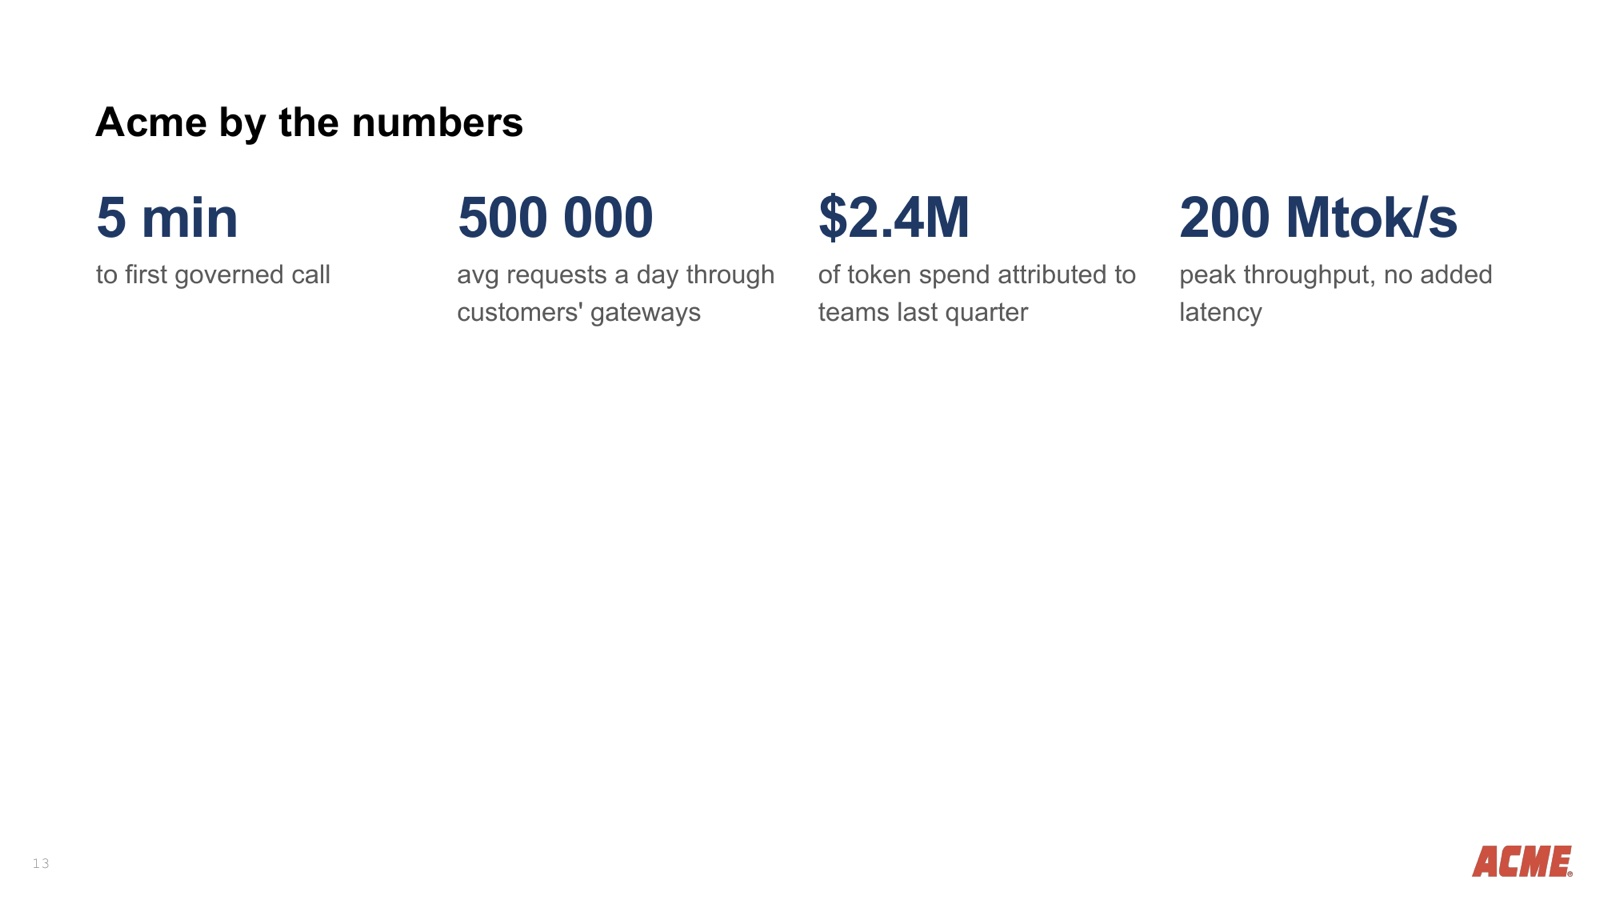
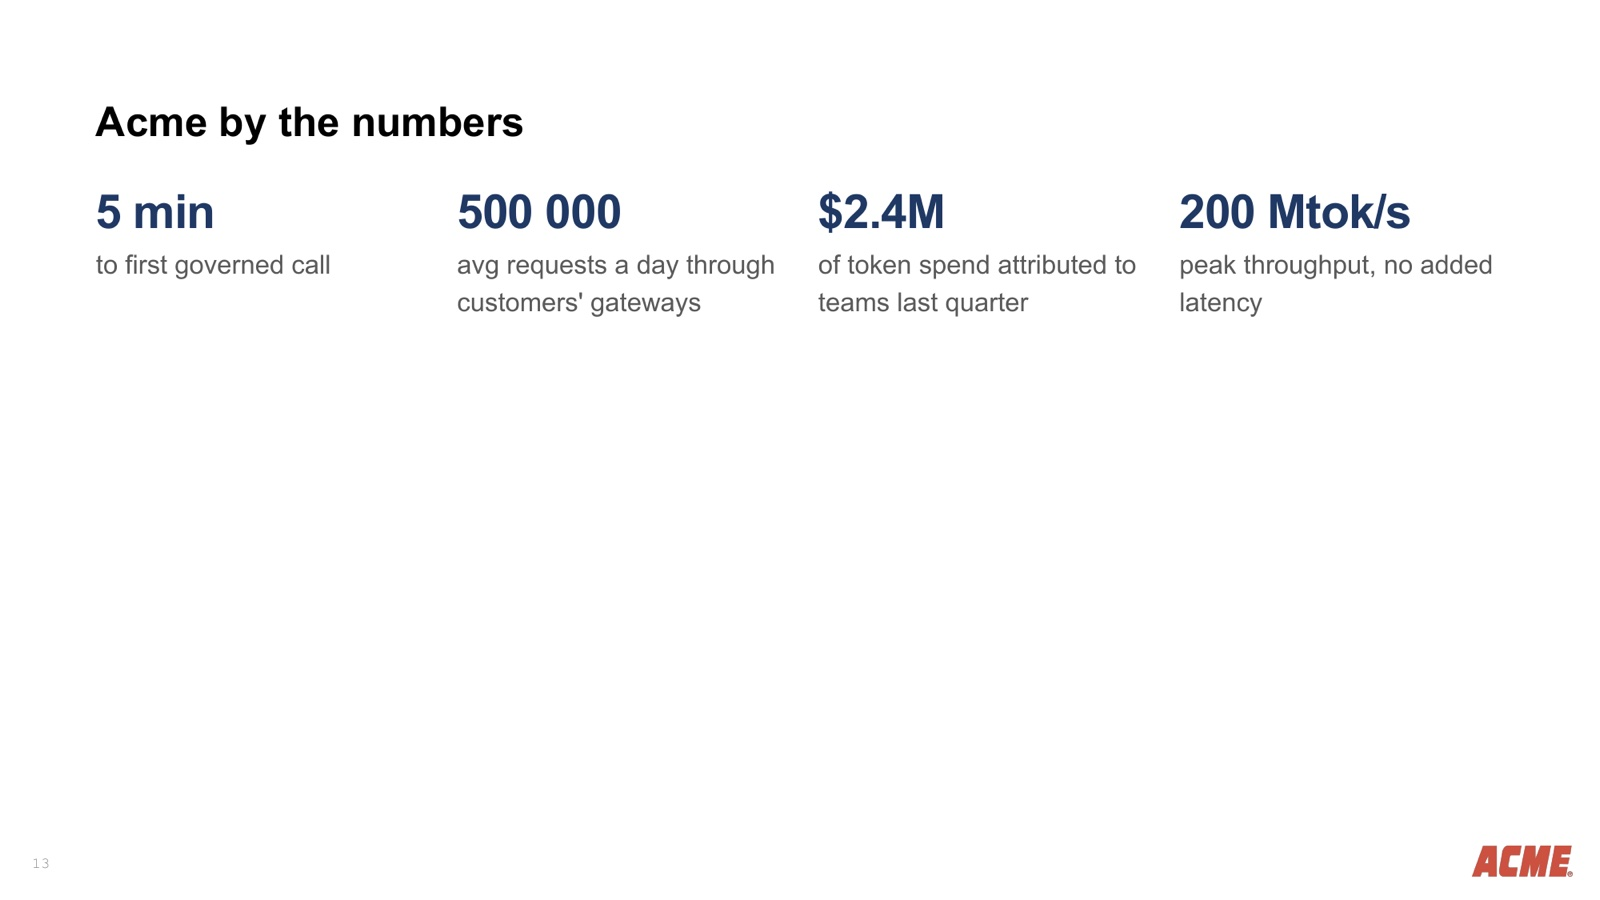
figures publishes its cap, and boring lowers it
The component's display size was min(3.4em, what fits the column). The 3.4em
half is now --ainsi-figures-max with that value as its fallback, so a theme can
say how loud a figure is without selecting into .ainsi-figures__value, which is
markup and will change. boring sets 1.8em: a number in a sentence rather than a
headline.

This is the sanctioned route for a theme reaching a component, so the README's
theme comparison now says so under the two screenshots. Refused adding it to
src/tokens.ts: that list is the cross-component contract every theme must
answer, and this one belongs to figures alone.

Changed region(s): [[0.2812, 0.2178, 0.9375, 0.3733], [0.0625, 0.2178, 0.2188, 0.3422]]

diff --git a/src/components/figures/style.css b/src/components/figures/style.css
@@ -1,6 +1,7 @@
 /* two shared rows, values over captions, one column per figure, so every caption starts on
    the same line. One size for the row: display type stepped down until the longest figure
-   fits its share of the width. */
+   fits its share of the width, and never past --ainsi-figures-max, which a theme may lower
+   to make a figure a number in the text rather than a headline. */
 .ainsi-figures {
     list-style: none; margin: 0; padding: 0;
     container-type: inline-size;
@@ -13,7 +14,7 @@
     align-self: end; min-width: 0;
     font-family: var(--ainsi-font-display);
     font-weight: var(--ainsi-strong);
-    font-size: min(3.4em, calc(100cqw / var(--ainsi-figures-count, 3) / (var(--ainsi-figures-chars, 3) * .62)));
+    font-size: min(var(--ainsi-figures-max, 3.4em), calc(100cqw / var(--ainsi-figures-count, 3) / (var(--ainsi-figures-chars, 3) * .62)));
     line-height: 1.05; letter-spacing: -.02em;
     color: var(--ainsi-accent);
     white-space: nowrap;

diff --git a/themes/boring/variables.css b/themes/boring/variables.css
@@ -36,6 +36,9 @@
     --ainsi-shadow: none;
     --ainsi-blur: 0px;
 
+    /* a figure is a number in a sentence here, not a headline: the component's own cap, lowered */
+    --ainsi-figures-max: 1.8em;
+
     --ainsi-motion: 0ms;
     --ainsi-ease: linear;
 }

diff --git a/README.md b/README.md
@@ -36,6 +36,8 @@ The markdown says what a block is (a timeline, a comparison) and what shape a pa
 
 ![The same four figures in the corporate template: Arial, dark blue, hung from the top of the page](docs/screenshots/boring.jpg)
 
+The figures are not merely recoloured: `boring` lowers `--ainsi-figures-max`, the cap the figures component sets its own display size against, so a figure reads as a number in a sentence rather than a headline. That is the whole of a theme's reach into a component. A theme may set the tokens a component publishes and it may style the page around it, but it may not select into its markup, and the build warns when a stylesheet tries.
+
 **Flow**
 
 Add `---` to split a page.
